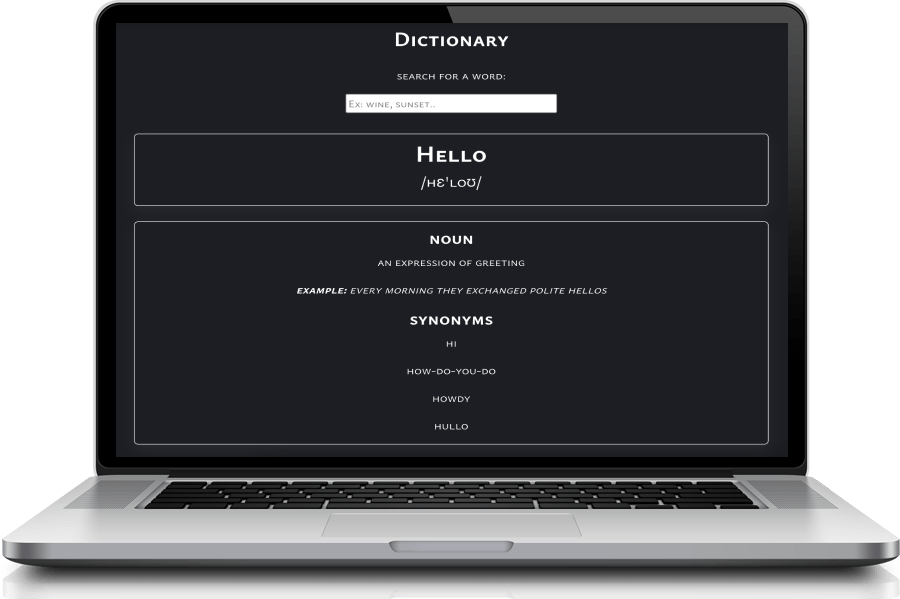
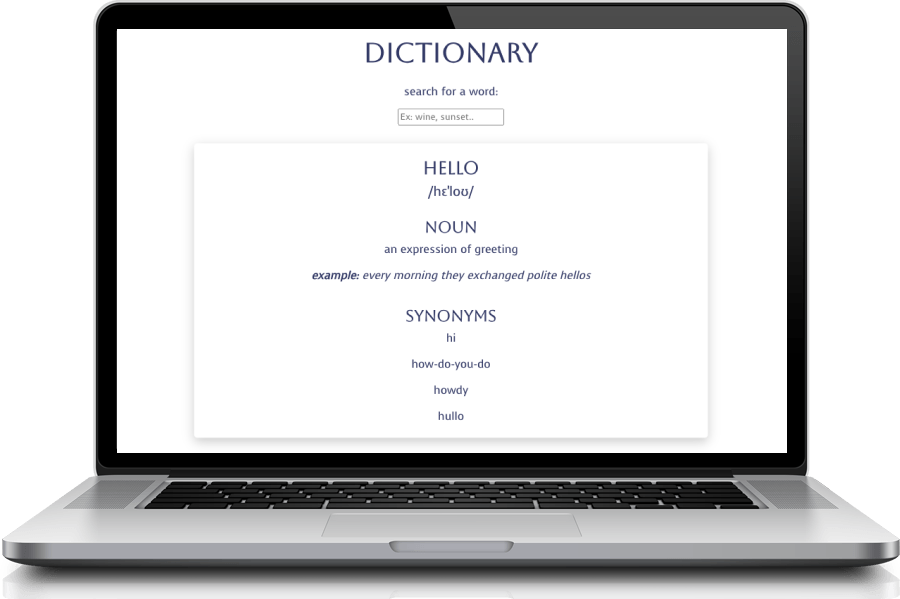
Updated CSS for app.js
Implemented logical properties where needed

diff --git a/src/App.css b/src/App.css
@@ -1,25 +1,25 @@
 :root {
-  --body-background: white;
+  --body-background: hsl(0, 0%, 100%);
   --font-color: black;
-  --dark-blue-color: #0e2e3b;
-  --teal-blue-color: #166678;
-  --green-blue-color: #7db9b3;
-  --container-color: #f0f0f0;
-  --box-shadow: 0 5px 10px rgba(0, 0, 0, 0.3);
+  --dark-blue-color: hsl(197, 62%, 14%);
+  --teal-blue-color: hsl(191, 69%, 28%);
+  --green-blue-color: hsl(174, 30%, 61%);
+  --container-color: hsl(0, 0%, 94%);
+  --box-shadow: 0 0.4rem 0.7rem rgba(0, 0, 0, 0.2);
   --main-font: "Quicksand", sans-serif;
   --typewriterSpeed: 6s;
   --typewriterCharacters: steps(20);
-  --transitionOnHover: 250ms ease-in-out;
+  --transitionOnHover: 350ms ease-in-out;
 }
 
 [data-theme="light"] {
-  --body-background: white;
+  --body-background: hsl(0, 0%, 100%);
   --font-color: black;
 }
 
 [data-theme="dark"] {
-  --body-background: #0e2e3b;
-  --font-color: white;
+  --body-background: hsl(197, 62%, 14%);
+  --font-color: hsl(0, 0%, 100%);
 }
 
 .App {
@@ -29,9 +29,9 @@
 }
 
 body {
-  margin: 0 auto;
+  margin: auto;
   scroll-behavior: smooth;
-  height: 100vh;
+  /* height: 100vh; */
 }
 
 h1,
@@ -44,13 +44,13 @@ h5 {
 }
 
 h1 {
-  font-size: 60px;
+  font-size: clamp(1.8rem, 1.5rem + 2vw, 3.75rem);
 }
 
 h2 {
-  text-align: left;
-  margin-left: 0;
-  font-size: 37px;
+  text-align: start;
+  margin-inline-end: 0;
+  font-size: 2.3rem;
 }
 
 h5 {
@@ -67,37 +67,33 @@ h3 {
 }
 
 h4 {
-  font-size: 24px;
+  font-size: 1.5rem;
   opacity: 0.9;
 }
 
 img {
-  border-radius: 6px;
-  border: 1.5px solid rgba(0, 0, 0, 0.3);
+  border-radius: 0.4rem;
   box-shadow: var(--box-shadow);
 }
 
 p {
-  border-radius: 4px;
-  font-size: 20px;
-  line-height: 1.5;
+  font-size: 1.2rem;
+  line-height: 1.3;
   text-align: start;
 }
 
 .downArrow {
   position: absolute;
-  margin-top: 70vh;
+  margin-block-start: 70svh;
   opacity: 0.9;
-  width: 100vw;
-  text-align: center;
 }
 
 .toggleSwitch {
   position: absolute;
-  margin-top: 70vh;
-  margin-left: 95vw;
-  margin-right: 55px;
-  margin-bottom: 15px;
+  margin-block-start: 70svh;
+  margin-inline-start: 95vw;
+  margin-inline-end: 3.5rem;
+  margin-block-end: 1rem;
 }
 
 .toggleSwitch:hover {
@@ -111,21 +107,20 @@ p {
   text-align: center;
   justify-content: center;
   align-items: center;
-  line-height: 28px;
-  font-size: 22px;
+  line-height: 1.75rem;
+  font-size: 1.3rem;
 }
 
 .toggleSwitch i.sun {
-  color: white;
+  color: hsl(0, 0%, 100%);
 }
 
 .toggleSwitch i.moon {
   color: var(--dark-blue-color);
-  padding-left: 10px;
 }
 
 .logo-small {
-  max-height: 50.5px;
+  max-height: 3.2rem;
   box-shadow: none;
 }
 
@@ -133,7 +128,7 @@ p {
   display: flex;
   align-items: center;
   justify-content: center;
-  height: 100vh;
+  height: 100svh;
   flex-direction: column;
 }
 
@@ -144,7 +139,6 @@ p {
 .hero-header h1 {
   text-align: center;
   font-family: "Source Code Pro", monospace;
-  font-size: 55px;
   text-transform: none;
   position: relative;
 }
@@ -166,8 +160,8 @@ p {
 }
 
 .hero-header h1::after {
-  width: 3px;
-  background: black;
+  width: 0.2rem;
+  background: hsl(0, 0%, 0%);
   animation: typewriter var(--typewriterSpeed) var(--typewriterCharacters) 1s
       forwards,
     blink 875ms var(--typewriterCharacters) infinite;
@@ -175,7 +169,7 @@ p {
 
 .hero-header h2 {
   text-align: center;
-  font-size: 45px;
+  font-size: clamp(1.5rem, 1rem + 1.5vw, 2.8rem);
   opacity: 0;
   transform: translateY(3rem);
   animation: fadeInUp 2s ease calc(var(--typewriterSpeed) + 2s) forwards;
@@ -183,41 +177,35 @@ p {
 
 .container-bg {
   background: var(--container-color);
-  border-radius: 10px;
+  border-radius: 0.6rem;
 }
 
 .container {
-  padding: 10px;
+  padding: 0.6rem;
 }
 
 .button-link {
-  border-radius: 5px;
-  padding: 16px 31px;
+  border-radius: 0.3rem;
+  padding: 1em 2em;
   text-transform: capitalize;
   text-decoration: none;
-  background: var(--teal-blue-color);
-  color: white;
+  background: var(--green-blue-color);
+  color: hsl(0, 0%, 100%);
   box-shadow: var(--box-shadow);
-  font-size: 19px;
+  font-weight: 500;
 }
 
 .button-link:hover {
   opacity: 0.9;
   transition: var(--transitionOnHover);
-}
-.hero-header,
-.downArrow,
-.header {
-  color: var(--font-color);
-}
-
-.react-switch-bg {
-  border: 1px solid var(--font-color);
+  outline: 0.1rem solid var(--teal-blue-color);
+  background: hsl(0, 0%, 100%);
+  color: var(--teal-blue-color);
 }
 
 @keyframes typewriter {
   to {
-    left: 100%;
+    margin-inline-start: 100%;
   }
 }
 
@@ -234,55 +222,12 @@ p {
   }
 }
 
-@media (max-width: 1400px) {
-  .hero-header h1 {
-    font-size: 50px;
-  }
-
-  .hero-header h2 {
-    font-size: 40px;
-  }
-}
-
-@media (max-width: 992px) {
+@media (max-width: 62rem) {
   h1,
   h2,
   h3,
   h4 {
     text-align: center;
-    width: 100%;
-  }
-
-  .hero {
-    padding-left: 0;
-    padding-top: 0;
-  }
-
-  .hero-header h1 {
-    font-size: 40px;
-  }
-
-  .hero-header h2 {
-    font-size: 30px;
-  }
-}
-
-@media (max-width: 768px) {
-  .hero-header h1 {
-    font-size: 35px;
-  }
-
-  .hero-header h2 {
-    font-size: 25px;
-  }
-}
-
-@media (max-width: 576px) {
-  .hero-header h1 {
-    font-size: 30px;
-  }
-
-  .hero-header h2 {
-    font-size: 20px;
+    max-inline-size: 100%;
   }
 }
